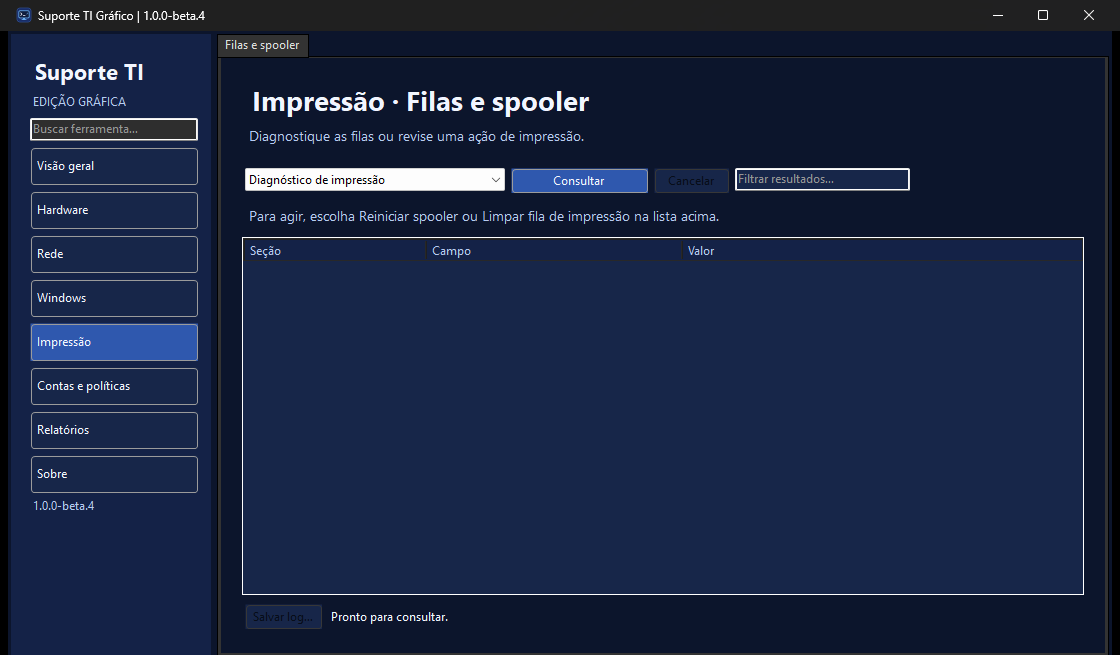
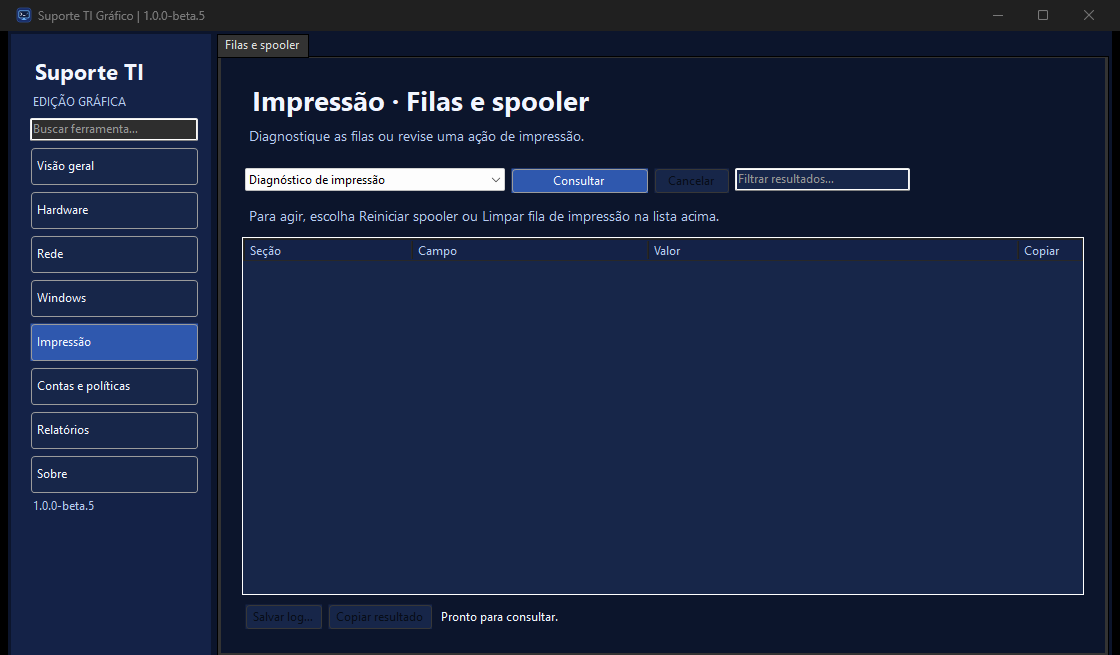
Adiciona cópia de resultados e ações contextuais na beta.5

diff --git a/Suporte TI Grafico/JanelaPrincipal.Copia.cs b/Suporte TI Grafico/JanelaPrincipal.Copia.cs
@@ -1,0 +1,91 @@
+using System.Runtime.InteropServices;
+
+namespace SuporteTI.Grafico;
+
+internal sealed partial class JanelaPrincipal
+{
+    private readonly Button copiarResultado = new() { Text = "Copiar &resultado", AutoSize = true, Enabled = false };
+    private readonly Label feedbackCopia = new() { AutoSize = true };
+
+    private void ConfigurarCopia()
+    {
+        grade.MultiSelect = true;
+        grade.ClipboardCopyMode = DataGridViewClipboardCopyMode.Disable;
+        grade.ConfigurarCopia(CopiarLinhas);
+        grade.Columns.Add(new DataGridViewButtonColumn
+        {
+            HeaderText = "Copiar", Text = "Copiar", UseColumnTextForButtonValue = true,
+            FlatStyle = FlatStyle.Flat,
+            Width = 65, AutoSizeMode = DataGridViewAutoSizeColumnMode.None,
+            SortMode = DataGridViewColumnSortMode.NotSortable
+        });
+        copiarResultado.Click += (_, _) => CopiarResultado();
+        AplicarCorBotao(copiarResultado, false);
+        feedbackCopia.ForeColor = AltoContraste ? SystemColors.WindowText : Secundario;
+
+        var menu = new ContextMenuStrip();
+        DataGridViewRow? alvoContexto = null;
+        var valor = menu.Items.Add("Copiar valor");
+        valor.Click += (_, _) => CopiarTexto(valor.Tag as string ?? "");
+        var linhas = menu.Items.Add("Copiar linhas selecionadas", null, (_, _) => CopiarLinhas());
+        var completo = menu.Items.Add("Copiar resultado completo", null, (_, _) => CopiarResultado());
+        menu.Opening += (_, _) =>
+        {
+            valor.Enabled = (alvoContexto ?? grade.CurrentRow)?.Selected == true;
+            valor.Tag = Convert.ToString((alvoContexto ?? grade.CurrentRow)?.Cells[2].Value);
+            linhas.Enabled = grade.SelectedRows.Count > 0;
+            completo.Enabled = resultado is not null;
+        };
+        menu.Closed += (_, _) => alvoContexto = null;
+        grade.CellMouseDown += (_, evento) =>
+        {
+            if (evento.Button != MouseButtons.Right || evento.RowIndex < 0)
+                return;
+            var linha = grade.Rows[evento.RowIndex];
+            alvoContexto = linha;
+            if (!linha.Selected)
+            {
+                grade.ClearSelection();
+                grade.CurrentCell = linha.Cells[2];
+            }
+            linha.Selected = true;
+        };
+        grade.ContextMenuStrip = menu;
+        grade.Disposed += (_, _) => menu.Dispose();
+    }
+
+    private void CopiarValor(DataGridViewRow? linha)
+    {
+        if (linha is not null)
+            CopiarTexto(Convert.ToString(linha.Cells[2].Value) ?? "");
+    }
+
+    private void CopiarLinhas()
+    {
+        var linhas = grade.SelectedRows.Cast<DataGridViewRow>().OrderBy(linha => linha.Index)
+            .Select(linha => string.Join("\t", Enumerable.Range(0, 3)
+                .Select(indice => Convert.ToString(linha.Cells[indice].Value) ?? "")));
+        CopiarTexto(string.Join(Environment.NewLine, linhas));
+    }
+
+    private void CopiarResultado()
+    {
+        if (resultado is not null)
+            CopiarTexto(LogConsulta.Formatar(nomeResultado, resultado, inicioResultado, fimResultado));
+    }
+
+    private void CopiarTexto(string texto)
+    {
+        if (string.IsNullOrEmpty(texto))
+            return;
+        try
+        {
+            Clipboard.SetText(texto, TextDataFormat.UnicodeText);
+            feedbackCopia.Text = "Copiado.";
+        }
+        catch (ExternalException)
+        {
+            feedbackCopia.Text = "Área de transferência ocupada. Tente copiar novamente.";
+        }
+    }
+}

diff --git a/Suporte TI Grafico/JanelaPrincipal.cs b/Suporte TI Grafico/JanelaPrincipal.cs
@@ -287,6 +287,7 @@ internal sealed partial class JanelaPrincipal : Form
             if (telaMapa is not null) telaMapa.Visible = id == "mapaocupacao";
             consultar.Visible = cancelar.Visible = filtro.Visible = !especial;
             salvar.Visible = estado.Visible = !especial;
+            copiarResultado.Visible = feedbackCopia.Visible = !especial;
             if (id == "monitor") telaMonitor?.BringToFront();
             else if (id == "mapaocupacao") telaMapa?.BringToFront();
             else grade.BringToFront();
@@ -360,19 +361,24 @@ internal sealed partial class JanelaPrincipal : Form
         {
             if (evento.RowIndex >= 0 && evento.ColumnIndex == 2)
                 AbrirCodigo(grade.Rows[evento.RowIndex]);
+            if (evento.RowIndex >= 0 && evento.ColumnIndex == 4)
+                CopiarValor(grade.Rows[evento.RowIndex]);
         };
         grade.Columns.Add(new DataGridViewTextBoxColumn { HeaderText = "Seção", FillWeight = 25, MinimumWidth = 70 });
         grade.Columns.Add(new DataGridViewTextBoxColumn { HeaderText = "Campo", FillWeight = 35, MinimumWidth = 85 });
         grade.Columns.Add(new DataGridViewTextBoxColumn { HeaderText = "Valor", FillWeight = 55, MinimumWidth = 110 });
         grade.Columns.Add(new DataGridViewTextBoxColumn { HeaderText = "Gráfico", FillWeight = 25, MinimumWidth = 100, Visible = false });
         grade.CellPainting += DesenharIndicadorDisco;
+        ConfigurarCopia();
         conteudoResultados.Controls.Add(grade);
         pagina.Controls.Add(conteudoResultados, 0, 2);
         estado.Margin = new Padding(3, 8, 3, 0);
         AplicarCorBotao(salvar, false);
         var rodape = new FlowLayoutPanel { AutoSize = true, Dock = DockStyle.Fill };
         rodape.Controls.Add(salvar);
+        rodape.Controls.Add(copiarResultado);
         rodape.Controls.Add(estado);
+        rodape.Controls.Add(feedbackCopia);
         pagina.Controls.Add(rodape, 0, 3);
         return pagina;
     }
@@ -594,6 +600,8 @@ internal sealed partial class JanelaPrincipal : Form
         grade.Rows.Clear();
         grade.Columns[3].Visible = resultado?.Operacao is "discos" or "diskhealth";
         salvar.Enabled = resultado is not null;
+        copiarResultado.Enabled = resultado is not null;
+        feedbackCopia.Text = "";
         if (resultado is null)
             return;
         var termo = filtro.Text.Trim();
@@ -703,6 +711,19 @@ internal sealed partial class JanelaPrincipal : Form
     private sealed class GradeDiagnostico : DataGridView
     {
         private Func<bool>? abrirCodigo;
+        private Action? copiar;
+
+        public void ConfigurarCopia(Action acao) => copiar = acao;
+
+        protected override bool ProcessCmdKey(ref Message msg, Keys keyData)
+        {
+            if (keyData == (Keys.Control | Keys.C) && copiar is not null)
+            {
+                copiar();
+                return true;
+            }
+            return base.ProcessCmdKey(ref msg, keyData);
+        }
 
         public void ConfigurarAtalho(Func<bool> acao) => abrirCodigo = acao;
 

diff --git a/Suporte TI Grafico/LogConsulta.cs b/Suporte TI Grafico/LogConsulta.cs
@@ -7,12 +7,20 @@ internal static class LogConsulta
 {
     public static string Salvar(string destino, string consulta, Resposta resposta, DateTimeOffset inicio, DateTimeOffset fim)
     {
-        var maquina = Environment.MachineName;
         var pasta = CriarPasta(destino, fim);
         var caminho = Path.Combine(pasta, "resultado.txt");
-        var versao = Assembly.GetExecutingAssembly().GetName().Version!.ToString(3);
         using var arquivo = new FileStream(caminho, FileMode.CreateNew, FileAccess.Write, FileShare.None);
         using var texto = new StreamWriter(arquivo, new UTF8Encoding(true));
+        texto.Write(Formatar(consulta, resposta, inicio, fim));
+        return caminho;
+    }
+
+    public static string Formatar(string consulta, Resposta resposta, DateTimeOffset inicio, DateTimeOffset fim)
+    {
+        var maquina = Environment.MachineName;
+        var versao = Assembly.GetExecutingAssembly().GetCustomAttribute<AssemblyInformationalVersionAttribute>()!
+            .InformationalVersion.Split('+')[0];
+        using var texto = new StringWriter();
         texto.WriteLine($"SUPORTE TI GRÁFICO - v{versao}");
         texto.WriteLine($"Computador: {maquina}");
         texto.WriteLine($"Consulta: {consulta}");
@@ -28,7 +36,7 @@ internal static class LogConsulta
             if (!string.IsNullOrWhiteSpace(secao.Aviso))
                 texto.WriteLine($"Aviso: {secao.Aviso}");
         }
-        return caminho;
+        return texto.ToString();
     }
 
     public static string SalvarHtmlComputador(string destino, byte[] html, DateTimeOffset fim)

diff --git a/Suporte TI Grafico/Testes/Program.cs b/Suporte TI Grafico/Testes/Program.cs
@@ -238,6 +238,14 @@ try
     var conteudoLog = File.ReadAllText(caminhoLog);
     Igual(true, caminhoLog != outroLog && conteudoLog.Contains("42 Mbps") && conteudoLog.Contains("Tempo limite simulado."),
         "Logs únicos preservam resultado e aviso");
+    Igual(conteudoLog, LogConsulta.Formatar("Velocidade", velocidade, agora, agora),
+        "Cópia completa e log usam o mesmo resultado com avisos");
+    var valorExtenso = "Diagnóstico çã 漢字 😀\r\nsegunda linha " + new string('x', 12000);
+    var textoParcial = new Resposta(1, "discos", "parcial",
+        [new Secao("Discos", [new Campo("Modelo", valorExtenso)], "SMART indisponível")]);
+    var textoCopiavel = LogConsulta.Formatar("Discos", textoParcial, agora, agora);
+    Igual(true, textoCopiavel.Contains(valorExtenso) && textoCopiavel.Contains("SMART indisponível") &&
+        textoCopiavel.Contains("Resultado: parcial"), "Texto completo conserva Unicode, múltiplas linhas e valores longos");
 
     var pastaMapa = temporaria.CreateSubdirectory("mapa");
     var subpasta = pastaMapa.CreateSubdirectory("maior");

diff --git a/README.md b/README.md
@@ -1,14 +1,14 @@
 # Suporte TI Gráfico
 
-**Versão atual · 1.0.0-beta.4**
+**Versão atual · 1.0.0-beta.5**
 
 **Windows x64 · edição portátil · prévia de homologação**
 
 Ferramenta gráfica de diagnóstico e manutenção do Windows para técnicos de TI e uso pessoal. Baseada no [Suporte TI para terminal](https://github.com/gustavo-brandao/SuporteTI), com interface própria, distribuição portátil e ciclo de versões independente.
 
-**[Baixar ZIP portátil](https://github.com/gustavo-brandao/SuporteTI-Desktop/releases/download/v1.0.0-beta.4/SuporteTI-Grafico-1.0.0-beta.4-win-x64.zip)** · [SHA-256](https://github.com/gustavo-brandao/SuporteTI-Desktop/releases/download/v1.0.0-beta.4/SuporteTI-Grafico-1.0.0-beta.4-win-x64.zip.sha256) · [Notas da versão](https://github.com/gustavo-brandao/SuporteTI-Desktop/releases/tag/v1.0.0-beta.4)
+**[Baixar ZIP portátil](https://github.com/gustavo-brandao/SuporteTI-Desktop/releases/download/v1.0.0-beta.5/SuporteTI-Grafico-1.0.0-beta.5-win-x64.zip)** · [SHA-256](https://github.com/gustavo-brandao/SuporteTI-Desktop/releases/download/v1.0.0-beta.5/SuporteTI-Grafico-1.0.0-beta.5-win-x64.zip.sha256) · [Notas da versão](https://github.com/gustavo-brandao/SuporteTI-Desktop/releases/tag/v1.0.0-beta.5)
 
-![Hardware e ferramentas de discos na beta.4](docs/imagens/hardware-discos.png)
+![Resultados com a coluna Copiar e o botão Copiar resultado na beta.5](docs/imagens/resultados-copia.png)
 
 ## Começar
 
@@ -28,6 +28,8 @@ A beta está sem assinatura Authenticode. Os testes de laboratório com interven
 - **Relatórios** — exportação TXT, HTML e EVTX.
 
 Use a busca para encontrar uma ferramenta pelo nome. As abas agrupam as operações por assunto e o indicador **(UAC)** identifica as ferramentas administrativas.
+
+Use a coluna **Copiar** para um valor, **Ctrl+C** para as linhas selecionadas ou **Copiar resultado** para o relatório completo. O menu de contexto oferece as mesmas ações e o rodapé confirma a cópia. O clique nos códigos de erro abre sua explicação.
 
 ![Tela Impressão na beta.4](docs/imagens/impressao.png)
 

diff --git a/Suporte TI Grafico/README.md b/Suporte TI Grafico/README.md
@@ -1,6 +1,6 @@
 # Suporte TI Gráfico
 
-**1.0.0-beta.4** é uma prévia de homologação para Windows x64, destinada a técnicos de qualquer empresa e a uso pessoal. A interface WinForms usa tema azul escuro e respeita a paleta de alto contraste do Windows. O rodapé mostra a máquina e o nível da sessão atual.
+**1.0.0-beta.5** é uma prévia de homologação para Windows x64, destinada a técnicos de qualquer empresa e a uso pessoal. A interface WinForms usa tema azul escuro e respeita a paleta de alto contraste do Windows. O rodapé mostra a máquina e o nível da sessão atual.
 
 ## Usar a prévia
 
@@ -20,6 +20,14 @@ A beta.3 normaliza o desgaste dos discos para número ou valor indisponível ant
 12. Use **Sobre** para conferir a versão e os créditos.
 
 A saúde dos discos apresenta barras quando existe uma medição numérica. Uma leitura limitada ou indisponível conserva seu aviso. O formulário principal utiliza as permissões da sessão e solicita o UAC por operação.
+
+## Copiar resultados
+
+A coluna **Copiar** copia o valor completo da linha. O clique em um código de erro continua abrindo sua explicação. Para copiar o código, use o botão da mesma linha.
+
+Selecione uma ou mais linhas e pressione **Ctrl+C**, ou use o menu de contexto com **Copiar valor**, **Copiar linhas selecionadas** e **Copiar resultado completo**. O botão **Copiar resultado** também copia o relatório completo com horários, estado e avisos, inclusive os dados ocultos pelo filtro.
+
+O rodapé mostra **Copiado.** após a gravação. Se a área de transferência estiver ocupada, a janela informa a falha e permite tentar novamente. Selecionar uma linha mantém o conteúdo anterior da área de transferência.
 
 ## Intervenções de suporte
 

diff --git a/Suporte TI Grafico/Testes/HOMOLOGACAO.md b/Suporte TI Grafico/Testes/HOMOLOGACAO.md
@@ -1,6 +1,6 @@
 # Homologação do Suporte TI Gráfico
 
-**Versão em testes 1.0.0-beta.4 · Windows x64**
+**Versão em testes 1.0.0-beta.5 · Windows x64**
 
 Extraia a beta e a 0.7.0 em pastas separadas. Compare o SHA-256 com o arquivo fornecido ao lado do ZIP. Abra os dois executáveis, confira o título de cada versão e use dados fictícios em todos os cenários de alteração. Registre versão do Windows, arquitetura, escala, tipo de conta, hash do ZIP e resultado de cada cenário.
 
@@ -29,7 +29,7 @@ Use um certificado de assinatura de código confiável e o servidor de carimbo a
 
 ```powershell
 .\Construcao\Publicar.ps1 -CertificadoThumbprint $thumbprint -ServidorCarimbo $url -Destino .\outputs\assinado
-.\Testes\Verificar-Pacote.ps1 -Zip .\outputs\assinado\SuporteTI-Grafico-1.0.0-beta.4-win-x64.zip -ExigirAssinatura -ExigirCim -Janela
+.\Testes\Verificar-Pacote.ps1 -Zip .\outputs\assinado\SuporteTI-Grafico-1.0.0-beta.5-win-x64.zip -ExigirAssinatura -ExigirCim -Janela
 ```
 
 Para verificar a origem UNC, extraia o pacote assinado no compartilhamento e abra pelo caminho UNC. Repita uma consulta administrativa com conta distinta. Em uma cópia descartável, altere um script administrativo e confirme a rejeição. O pacote local sem assinatura cobre a regressão desta beta. A assinatura e os aceites em VM continuam como critérios de promoção.

diff --git a/Suporte TI Grafico/Testes/RESULTADO.md b/Suporte TI Grafico/Testes/RESULTADO.md
@@ -1,5 +1,13 @@
 # Validação das prévias
 
+## Prévia 1.0.0-beta.5
+
+- **79 testes automatizados aprovados**. Os novos cenários confirmam que o relatório copiado e o TXT salvo usam a mesma formatação e conservam Unicode, múltiplas linhas, texto extenso e avisos de resultado parcial.
+- No ZIP extraído, a cópia por linha, o Ctrl+C com duas linhas, o menu de contexto e a cópia completa com filtro aplicado passaram na área de transferência real. Selecionar linhas preservou o marcador anterior.
+- O teste bloqueou o clipboard a partir de outro processo, confirmou a mensagem recuperável, liberou o bloqueio e repetiu a cópia com sucesso. O conteúdo anterior foi restaurado no encerramento do verificador.
+- A navegação das 44 ferramentas passou. A pesquisa por clique em código de erro, a consulta de discos pelo UAC, as exportações, os gráficos, o monitor e o mapa também passaram.
+- O cabeçalho do TXT e da cópia completa identifica a versão de pré-lançamento por meio do atributo informativo da aplicação.
+
 ## Prévia 1.0.0-beta.4
 
 - **77 testes automatizados aprovados**. A nova cobertura confere os 44 IDs da beta.3 sem duplicação, os sete destinos, o agrupamento de discos e mapa e a busca com várias palavras e sem acentos.

diff --git a/docs/releases/1.0.0-beta.5.md b/docs/releases/1.0.0-beta.5.md
@@ -1,0 +1,22 @@
+Prévia portátil para Windows x64 com cópia de resultados para a área de transferência.
+
+## Novidades
+
+- Botão **Copiar** em cada linha para copiar o valor completo.
+- **Ctrl+C** copia as linhas selecionadas na ordem da tabela.
+- Menu de contexto com cópia de valor, linhas e relatório completo.
+- **Copiar resultado** inclui os dados ocultos pelo filtro, horários e avisos.
+- Feedback **Copiado.** e mensagem recuperável quando o clipboard está ocupado.
+- O clique nos códigos de erro continua abrindo a explicação.
+
+O relatório copiado e o TXT salvo compartilham a mesma formatação. O cabeçalho identifica a versão beta do aplicativo.
+
+## Validação
+
+Passaram 79 testes automatizados. A área de transferência real foi verificada com cópia por linha, Ctrl+C, menu de contexto, filtro e bloqueio temporário. A consulta por clique em códigos de erro e a leitura de discos pelo UAC também passaram.
+
+## Download
+
+Baixe **SuporteTI-Grafico-1.0.0-beta.5-win-x64.zip**, confira o arquivo **.sha256** e extraia a pasta completa.
+
+Esta prévia é distribuída sem assinatura Authenticode. Os cenários de laboratório continuam no roteiro de homologação.

diff --git a/docs/PLANEJAMENTO.md b/docs/PLANEJAMENTO.md
@@ -37,7 +37,7 @@ Para cada prévia, uma correção intermediária ganha uma versão de patch, por
 
 ## Matriz de testes e rotina de atualização
 
-O [plano de revisão por etapas](REVISAO-UX-2026-11-09.md) detalha a sequência atual das betas. A próxima atualização é a beta.5, com cópia de resultados. Após a beta.8, estão previstas a beta.9, com visual inspirado no Windows 11 e temas Escuro, Claro e Sistema, e a beta.10, com avaliação e protótipo do PowerShell 7 incluído no pacote portátil. O tema padrão planejado é Escuro.
+O [plano de revisão por etapas](REVISAO-UX-2026-11-09.md) detalha a sequência atual das betas. A próxima atualização é a beta.6, com melhorias de legibilidade e apresentação dos discos. Após a beta.8, estão previstas a beta.9, com visual inspirado no Windows 11 e temas Escuro, Claro e Sistema, e a beta.10, com avaliação e protótipo do PowerShell 7 incluído no pacote portátil. O tema padrão planejado é Escuro.
 
 | Camada | Cobertura e evidência |
 | --- | --- |

diff --git a/docs/REVISAO-UX-2026-11-09.md b/docs/REVISAO-UX-2026-11-09.md
@@ -2,7 +2,7 @@
 
 Revisão de 9 de novembro de 2026. Base Desktop 1.0.0-beta.2, revisão 0d51ce7, comparada com o catálogo público CLI disponível neste workspace. As versões abaixo são propostas cumulativas. Cada etapa termina em pacote de teste e registro de evidência.
 
-A beta.3 concluiu a correção de transporte dos discos. A beta.4 implementa os sete menus, as abas por área, o catálogo central e a busca. O ZIP passou no acesso às 44 ferramentas e na consulta de discos pelo UAC. A próxima etapa é a beta.5, dedicada à cópia de resultados e às ações contextuais.
+A beta.3 concluiu a correção de transporte dos discos. A beta.4 implementa os sete menus, as abas por área, o catálogo central e a busca. A beta.5 acrescenta a cópia de resultados, Ctrl+C e menu de contexto, com recuperação após bloqueio do clipboard. A próxima etapa é a beta.6, dedicada à legibilidade, ao espaçamento e à apresentação dos discos.
 
 ## Resultado da revisão
 

diff --git a/Suporte TI Grafico/ESCOPO.md b/Suporte TI Grafico/ESCOPO.md
@@ -1,5 +1,11 @@
 # Escopo das prévias
 
+## Prévia 1.0.0-beta.5
+
+A tabela oferece cópia por valor, seleção múltipla e Ctrl+C. O menu de contexto permite copiar valor, linhas ou resultado completo. O relatório completo usa a mesma formatação do TXT e conserva os dados ocultos pelo filtro, horários, estado e avisos. O clique em códigos permanece dedicado à pesquisa.
+
+A falha ao acessar a área de transferência é apresentada no rodapé e pode ser repetida. A seleção de linhas não executa cópia automática. O cabeçalho do relatório passa a identificar a versão de pré-lançamento.
+
 ## Prévia 1.0.0-beta.4
 
 O catálogo central preserva os 44 identificadores de ferramentas e define sete destinos por assunto. A janela usa abas para as áreas e um seletor de ferramentas. Saúde, volumes, mapa e CHKDSK ficam em Hardware → Discos. Impressão tem uma página própria. GPO, perfis e Autologon ficam em Contas e políticas.
